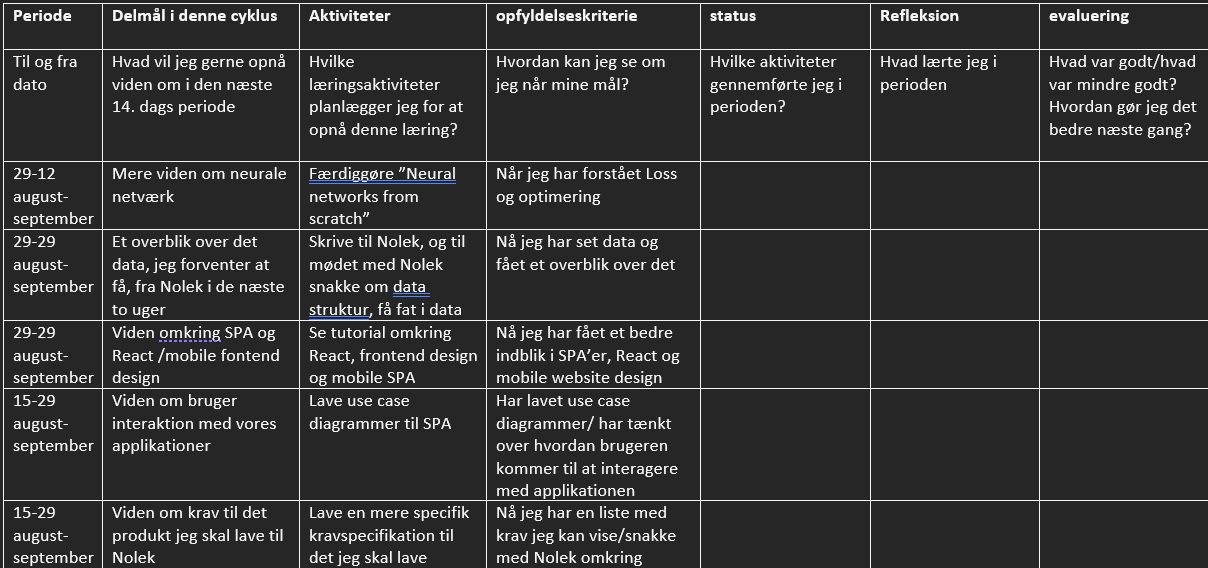
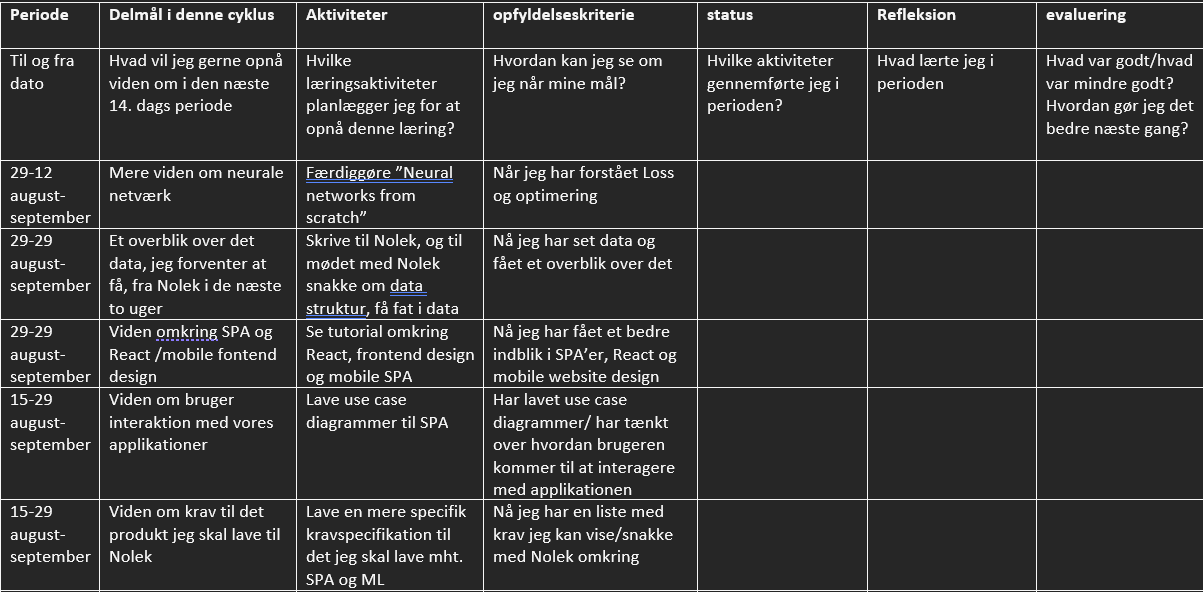
delmal2 and imgs fix

Changed region(s): [[0.0, 0.2694, 1.0, 1.0], [0.0, 0.0, 1.0, 0.2394]]

diff --git a/_posts/2023-08-16-partgoals2.html b/_posts/2023-08-16-partgoals2.html
@@ -8,6 +8,8 @@ background: '/img/posts/kanban.png'
 
 <p>Delmål 1: Færdiggøre "Neural networks from scratch"</p>
 <p>Delmål 2: Få overblik over det data, jeg forventer at få, fra Nolek i de næste to uger</p>
-<p>Delmål 3: Få begyndt at lære omkring SPA</p>
+<p>Delmål 3: Se tutorial omkring React, frontend design og mobile SPA </p>
+<p>Delmål 4: Lave use case diagrammer til SPA</p>
+<p>Delmål 5: Lave en mere specifik kravspecifikation til det jeg skal lave mht. SPA og ML</p>
 
 <img src="/img/posts/delmål2.png" style="max-width: 100%"> 
